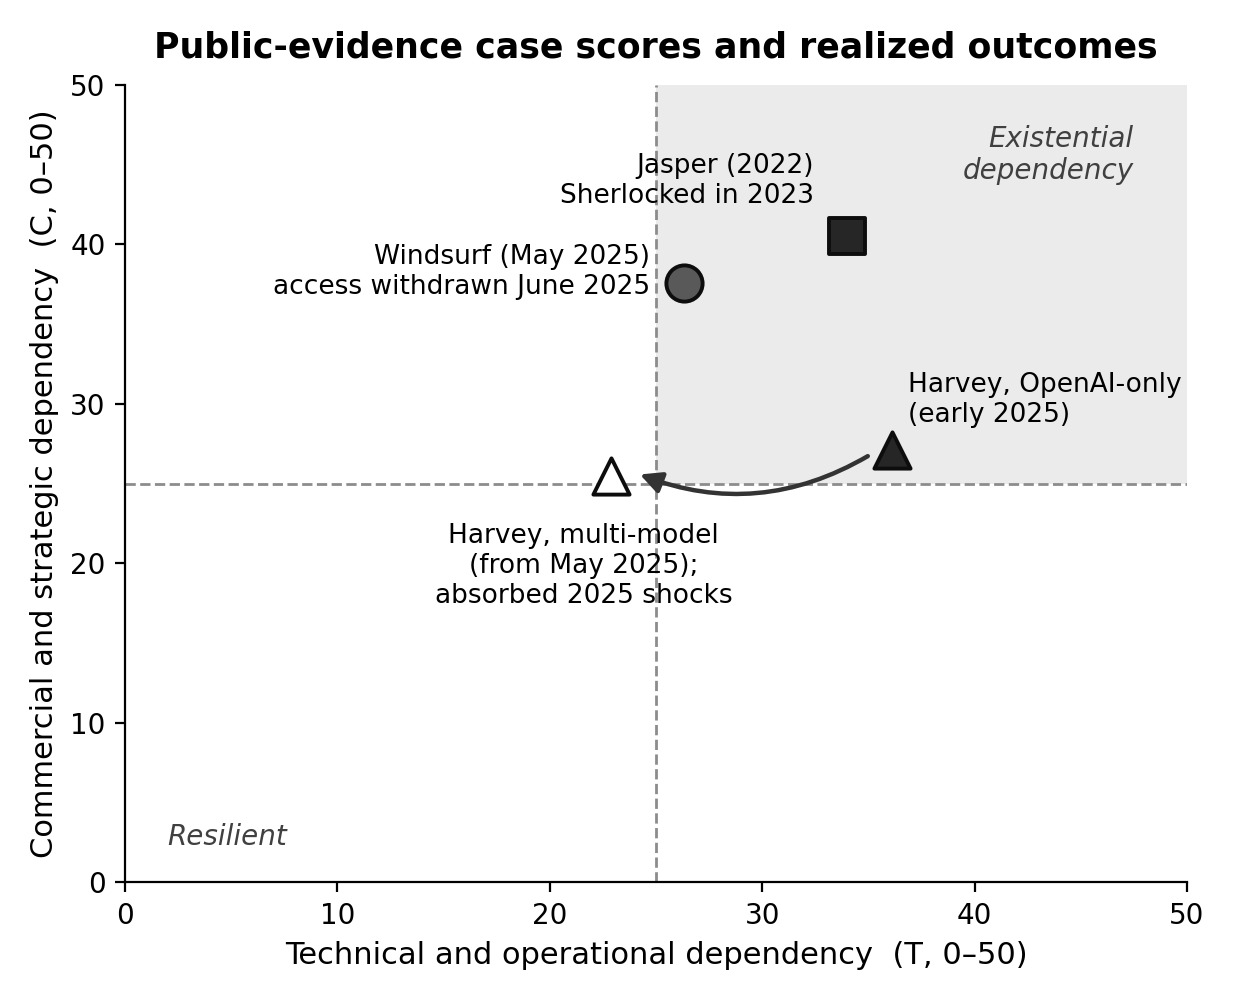
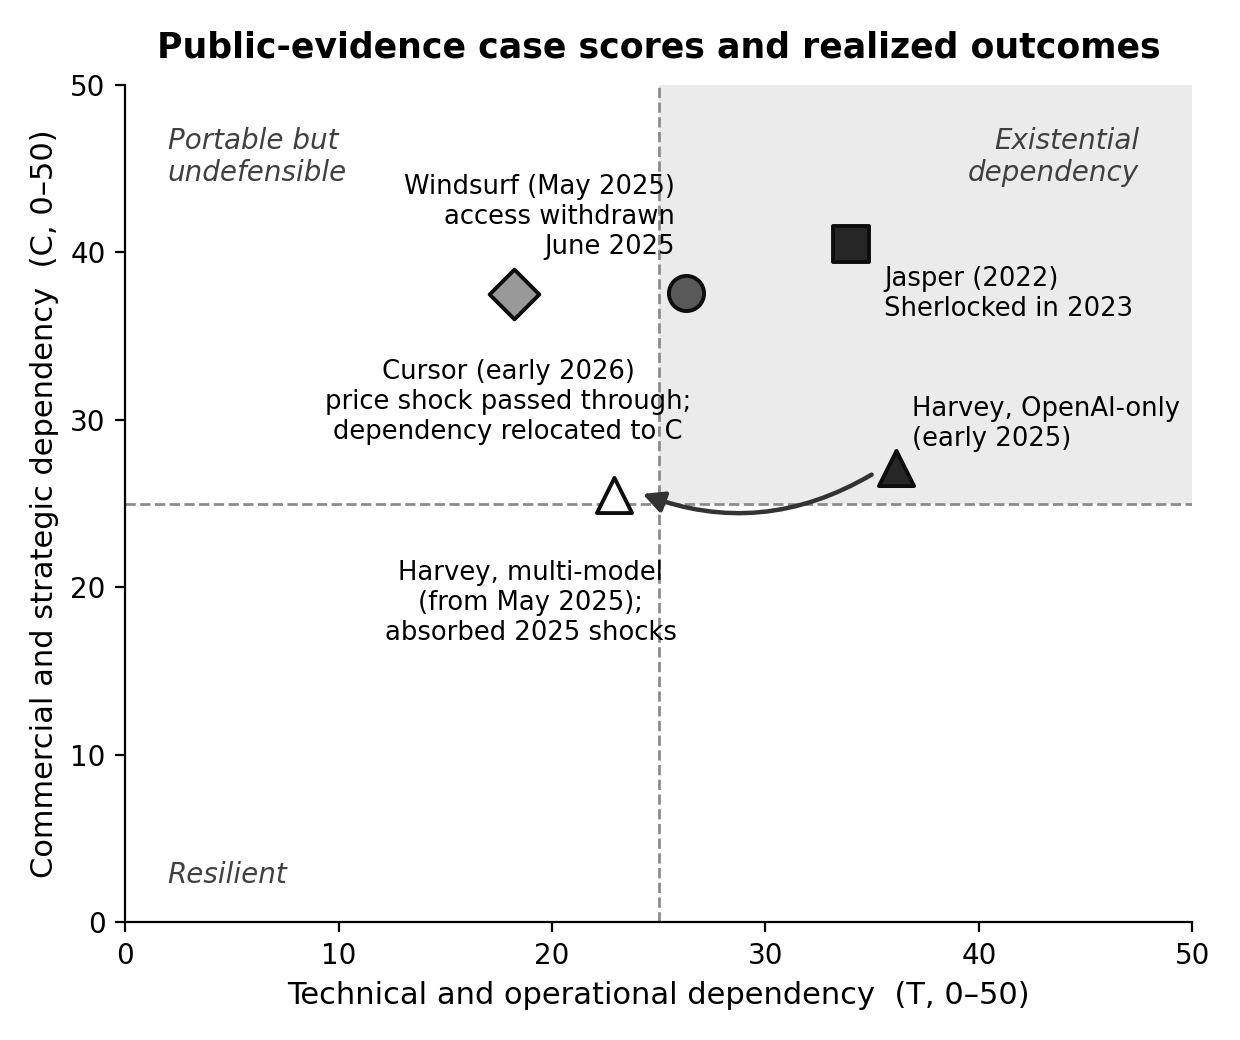
Add Cursor as fourth public-evidence case; evidence updates for Harvey and Windsurf
Cursor early-2026 configuration: T=18.2, C=37.5, AIPDI=55.7 [53-59].
Lowest technical sub-index of the five configurations (own Composer and
Fusion models, in-house routing) with near-Windsurf commercial exposure:
the documented June 2025 repricing (firm-attributed to rising model
costs) is a provider price re-card transmitted downstream. Demonstrates
dependency relocation, not removal. Verified anchors: Composer launch
2025-10-29, pricing postmortem cursor.com/blog/june-2025-pricing,
TechCrunch 2025-07-07. Fig. 9 regenerated with five configurations and
the portable-but-undefensible quadrant label.

diff --git a/supplement/case_scores.md b/supplement/case_scores.md
@@ -1,9 +1,9 @@
-# Public-evidence case scores: Jasper, Windsurf, and Harvey
+# Public-evidence case scores: Jasper, Windsurf, Harvey, and Cursor
 
 Supplementary material for the paper "AI-Dependent or AI-Enabled? A
 Reliability-Oriented Index for Measuring Downstream Reliance on
 Foundation-Model Providers" (IEEE Transactions on Reliability, under
-review). This file contains indicator-level coding sheets for three named
+review). This file contains indicator-level coding sheets for four named
 firms whose provider-dependency configurations and outcomes are unusually
 well documented in public sources, scored on the paper's Table II anchors.
 
@@ -31,6 +31,7 @@ Status and honesty notes:
 | Windsurf, pre-cutoff (May 2025) | 26.3 | 37.6 | 63.9 | 71.5 | 61-67 | Provider withdrew first-party capacity with <5 days notice (Jun 2025) |
 | Harvey, pre (OpenAI-only, early 2025) | 36.1 | 27.1 | 63.2 | 69.4 | 61-66 | (configuration replaced by choice, below) |
 | Harvey, post (multi-model, from May 2025) | 22.9 | 25.5 | 48.5 | 53.0 | 46-51 | Absorbed the mid-2025 provider turbulence |
+| Cursor, early 2026 | 18.2 | 37.5 | 55.7 | 68.1 | 53-59 | Provider price re-card transmitted to its own pricing (Jun 2025); diversification relocated dependency to the commercial axis |
 
 Two structural observations:
 
@@ -122,6 +123,55 @@ TechCrunch, 2025-05-13
 | margin_exposure | 0.5 | 0.5 | Segment-typical (flagged) |
 | sherlocking_exposure | 0.4 | 0.35 | Deep vertical workflow less absorbable by providers |
 | contractual_lockin | 0.5 | 0.4 | Investor relationship with its primary provider (OpenAI Startup Fund) |
+
+## Coding sheet: Cursor (Anysphere), early 2026 configuration
+
+Segment: AI-native application (agentic coding IDE). Sources: Cursor,
+"Clarifying our pricing," June 2025 postmortem attributing the repricing to
+model-cost increases (https://cursor.com/blog/june-2025-pricing);
+TechCrunch, 2025-07-07, apology and refunds
+(https://techcrunch.com/2025/07/07/cursor-apologizes-for-unclear-pricing-changes-that-upset-users/);
+Composer in-house model launch with Cursor 2.0, 2025-10-29 (firm blog and
+press); TechCrunch, 2025-06-05, $500M ARR and $9.9B valuation
+(https://techcrunch.com/2025/06/05/cursors-anysphere-nabs-9-9b-valuation-soars-past-500m-arr/);
+OpenAI Startup Fund seed participation (2023, widely documented).
+Third-party estimates of inference spend and gross margin are secondary
+and flagged [inferred, weak]; they inform a band, not a point.
+
+| Indicator | Score | Evidence |
+|---|---|---|
+| single_provider_concentration | 0.55 | Multi-model (Claude, GPT, Kimi) plus own Composer and Fusion models; demand and spend reportedly concentrate on Anthropic models |
+| no_abstraction_layer | 0.2 | In-house routing across providers and own models |
+| prompt_tool_nonportability | 0.4 | Agent harness tuned per model family; strong cross-model evaluation infrastructure |
+| finetuning_lockin | 0.1 | Own models trained in-house; no provider-hosted fine-tunes disclosed |
+| data_embeddings_lockin | 0.2 | In-house codebase semantic search and retrieval |
+| no_open_weight_fallback | 0.3 | Composer and Fusion in production are a real in-house standby |
+| sla_criticality | 0.7 | Agent workloads run largely on third-party frontier models; autocomplete runs on own models |
+| ai_share_of_value | 0.95 | The product is AI coding |
+| weak_moat | 0.5 | Scale ($1B+ annualized revenue, 1M+ paying users) and UX, against model-is-the-draw dynamics |
+| margin_exposure | 0.85 | Documented: June 2025 repricing attributed by the firm to model-cost increases; third-party estimates of very high inference share of revenue [inferred, weak; band 0.7-0.95] |
+| sherlocking_exposure | 0.85 | Claude Code, OpenAI Codex, GitHub Copilot, Devin compete directly |
+| contractual_lockin | 0.4 | OpenAI Startup Fund on the cap table; large committed provider spend reported |
+
+Result: T = 18.2, C = 37.5, AIPDI = 55.7 (53 to 59 under weight
+uncertainty), geometric 68.1. Reading: the lowest technical sub-index of
+the five configurations, achieved through aggressive diversification and
+in-house models, coexists with near-Windsurf commercial exposure. The June
+2025 pricing episode is a documented instance of a provider price re-card
+transmitted through a dependent firm to its own customers. Dependency was
+relocated, not removed.
+
+## Evidence updates after initial coding (2026-07-05)
+
+- Harvey: Anthropic launched a legal plugin in February 2026 (press),
+  a materialization of the Sherlocking channel after our scored window;
+  Harvey reached about $100M ARR by August 2025 and continued multi-model
+  expansion (Model Selector routing to Claude and Gemini). The pre and
+  post scores above are time-stamped to early and mid 2025 and unchanged.
+- Windsurf: first-party Claude access was restored under Cognition
+  ownership (July 2025); disclosed EU inference cluster in Frankfurt;
+  SWE-1 line continued (SWE-1.5, SWE-1.6). The pre-cutoff score above is
+  time-stamped to May 2025 and unchanged.
 
 ## Scoreability comparison: can adjacent frameworks score these firms?
 